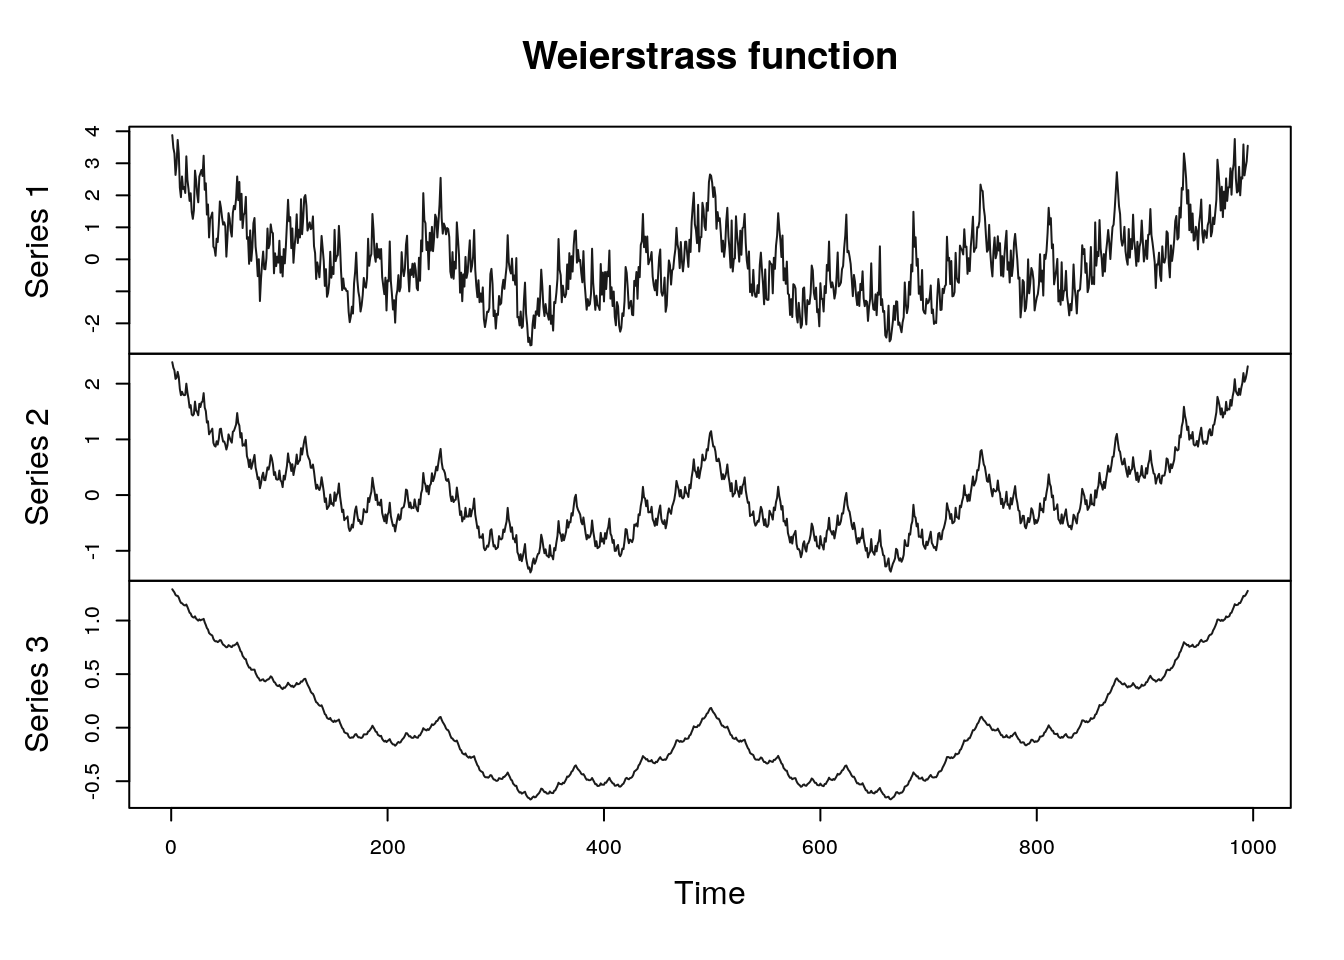
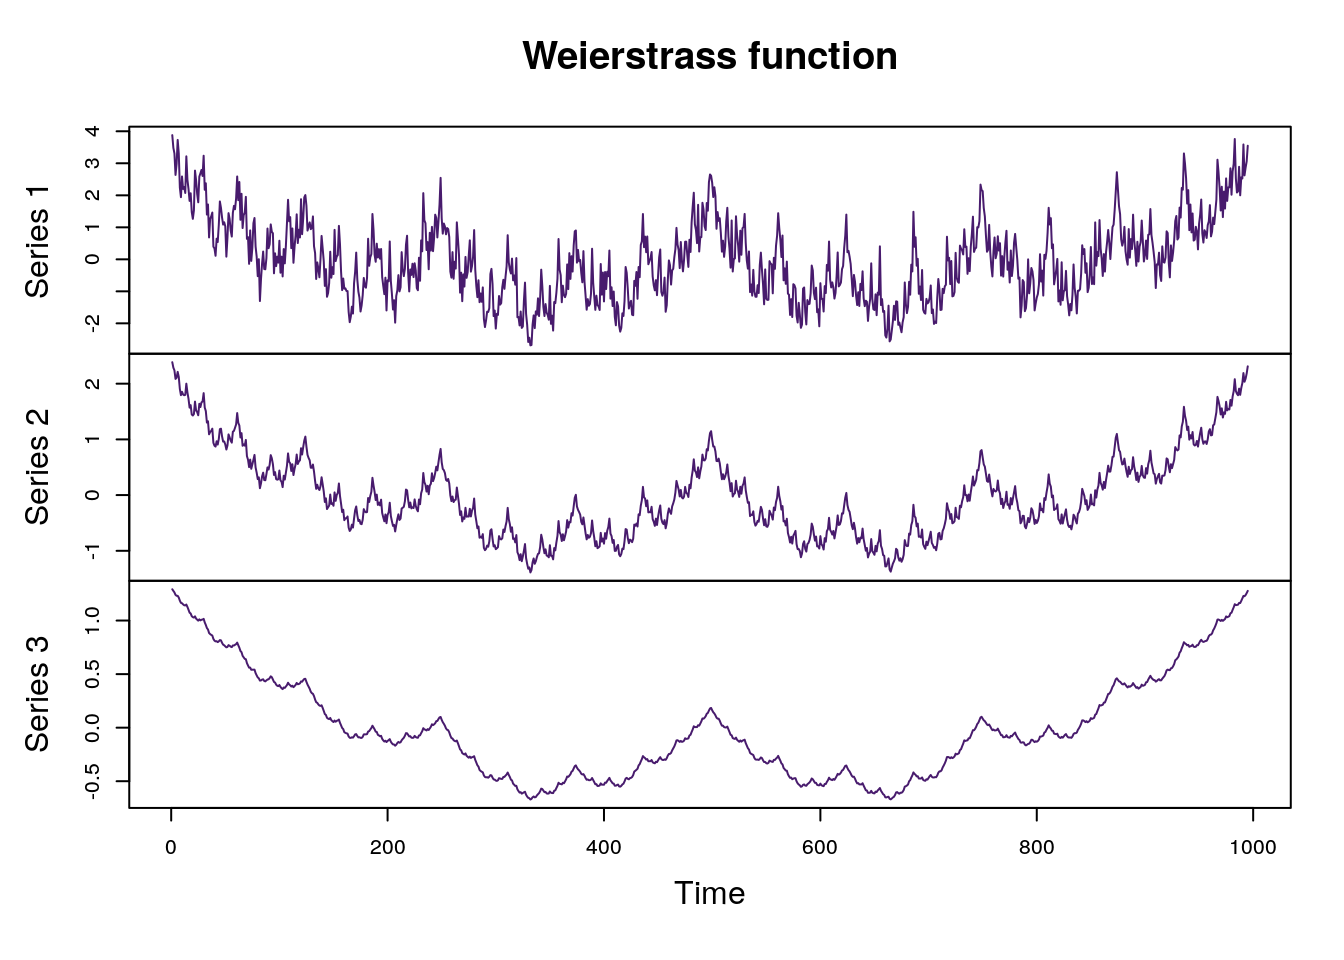
pages edits

diff --git a/README.html b/README.html
@@ -29,10 +29,10 @@ body {
 <h2 id="eeg-complex">eeg-complex</h2>
 <p>This package contains code that reproduces figures and analyses used in my MA thesis, <em>Improvement of epsilon-complexity estimation and an application to seizure prediction</em>.</p>
 <p>For an overview of the research and individual analyses see the <a href="https://nateaff.github.io/eeg-complex/">web pages</a>.</p>
-<p>The <a href="https://github.com/nateaff/ecomplex"><code>ecomplex</code></a> package contains the <code>R</code> version of the procedure for computing the epsilon-complexity of a single variable function or time series. The repositories for the three other packages used in this thesis, <a href="https://github.com/nateaff/tssims"><code>tssims</code></a>, <a href="https://github.com/nateaff/tsfeats"><code>tsfeats</code></a>and <a href="https://github.com/nateaff/tssegment"><code>tssegment</code></a>, are also on github. The first two packages unify access to a set of simulations and features, respectively. The <code>tssegment</code> package provides an interface to the segmentation and classification methods used for predicting seizures.</p>
+<p>The <a href="https://github.com/nateaff/ecomplex">ecomplex</a> package contains the <code>R</code> version of the procedure for computing the epsilon-complexity of a single variable function or time series. The repositories for the three other packages used in this thesis, <a href="https://github.com/nateaff/tssims">tssims</a>, <a href="https://github.com/nateaff/tsfeats">tsfeats</a> and the imaginatively named <a href="https://github.com/nateaff/tssegment">tssegment</a>, are also on github. The first two packages unify access to a set of simulations and features, respectively. The <code>tssegment</code> package provides an interface to the segmentation and classification methods used for predicting seizures.</p>
 <p>The current draft of the complete thesis is <a href="https://github.com/nateaff/eeg-complex/blob/master/docs/thesis/thesis.pdf">here.</a> (This is a draft and has not yet been submitted.)</p>
 <h2 id="files">Files</h2>
-<p>This is an <code>R</code> package with additional files that follow the structure of a <a href="https://github.com/jdblischak/workflowr"><code>workflowr</code></a> project. See the <a href="https://jdblischak.github.io/workflowr/index.html"><code>workflowr</code> documentation</a> for more information. The <a href="https://github.com/jdblischak/workflowr"><code>workflowr</code> readme</a> also as a nice overview of similar project management packages.</p>
+<p>This is an <code>R</code> package with additional files that follow the structure of a <a href="https://github.com/jdblischak/workflowr">workflowr</a> project. See the <a href="https://jdblischak.github.io/workflowr/index.html">workflowr documentation</a> for more information. The <a href="https://github.com/jdblischak/workflowr">workflowr readme</a> also as a nice overview of similar project management packages.</p>
 <p><code>R</code> : Contains most standalone functions.</p>
 <p><code>code</code>: Code associated with individual analyses. Code is organized by prefix into 5 sections:</p>
 <ul>

diff --git a/docs/simulations.html b/docs/simulations.html
@@ -223,6 +223,7 @@ $(document).ready(function () {
 
 <div id="TOC">
 <ul>
+<li><a href="#introduction">Introduction</a></li>
 <li><a href="#diagnostic-plots">Diagnostic plots</a></li>
 <li><a href="#approximation-method-performance">Approximation method performance</a></li>
 <li><a href="#session-information">Session information</a></li>
@@ -236,7 +237,9 @@ shared across the workflowr files. -->
 <p><strong>Last updated:</strong> 2017-07-25</p>
 <!-- Insert the code version (Git commit SHA1) if Git repository exists and R
  package git2r is installed -->
-<p><strong>Code version:</strong> 5cf245a ### Introduction</p>
+<p><strong>Code version:</strong> e5a2a1d</p>
+<div id="introduction" class="section level3">
+<h3>Introduction</h3>
 <p>The <span class="math inline">\(\varepsilon-\)</span>complexity of a time series is computed by successively downsampling and approximating the original time series. The initial implementation of the <span class="math inline">\(\varepsilon-\)</span>complexity procedure used piecewise polynomials as the approximation method. We implemented the procedure in the <code>R</code> language using three approximation methods, B-splines, cubic splines, and interpolating subdivision. We implemented the latter method in <code>R</code> while the spline approximation methods used existing libraries.</p>
 <p>The purpose of adding additional approximation methods was to improve the performance of the complexity coefficients in segmentation and classification tasks. We found that improved approximation did not lead to improved classification performance. Cubic splines were used in later applications because of the computational efficiency of the method.</p>
 <pre class="r"><code>knitr::read_chunk(&quot;../code/sim-example.R&quot;)</code></pre>
@@ -301,6 +304,7 @@ Single time series from each simulation group.
 </p>
 </div>
 <pre class="r"><code>save_plot(&quot;jitter_timeseries&quot;, prefix)</code></pre>
+</div>
 <div id="diagnostic-plots" class="section level3">
 <h3>Diagnostic plots</h3>
 <p>In the theory developed by Piryatinska and Darkhovsky<a href="#fn1" class="footnoteRef" id="fnref1"><sup>1</sup></a>, the <span class="math inline">\(log-log\)</span> regression of approximation errors taken at each downsampling level <span class="math inline">\(S\)</span> should be roughly linear. The two parameters defining this linear fit are the complexity coefficients.The implementation of the three approximation methods was checked to determine that this linear relationship held. Below is the plot for the interpolating subdivision method. Diagnostic plots for the other methods produced similar results.</p>

diff --git a/docs/index.html b/docs/index.html
@@ -222,13 +222,13 @@ $(document).ready(function () {
 shared across the workflowr files. -->
 <!-- Update knitr chunk options -->
 <!-- Insert the date the file was last updated -->
-<p><strong>Last updated:</strong> 2017-07-24 <!-- Insert the code version (Git commit SHA1) if Git repository exists and R
+<p><strong>Last updated:</strong> 2017-07-25 <!-- Insert the code version (Git commit SHA1) if Git repository exists and R
  package git2r is installed --></p>
 <ol style="list-style-type: decimal">
 <li><a href="simulations.html">Simulation and Approximation Methods</a></li>
 <li><a href="complexity-coefficients.html">Properties of the Complexity Coefficients</a></li>
 <li><a href="seizure-prediction.html">Seizure Prediction</a></li>
-<li><a href="ecomplexity-procedure.html">Computing the complexity coefficients</a></li>
+<li><a href="ecomplexity-procedure.html">Computing the Complexity Coefficients</a></li>
 </ol>
 <p>The <span class="math inline">\(\varepsilon\)</span>-complexity of a continuous function is, roughly speaking, the amount of information needed to reconstruct that function within an absolute error <span class="math inline">\(\varepsilon\)</span>. The theory and procedure for estimating <span class="math inline">\(\varepsilon\)</span>-complexity was introduced by Darkhovsky and Piryatinska<a href="#fn1" class="footnoteRef" id="fnref1"><sup>1</sup></a>. In previous work, the complexity coefficients have been shown to be useful features for the segmentation and classification of time series<a href="#fn2" class="footnoteRef" id="fnref2"><sup>2</sup></a>.</p>
 <p>The purpose of these analyses was three-fold:</p>
@@ -274,6 +274,7 @@ knitr::read_chunk(&quot;../code/eeg-segment-plot.R&quot;)</code></pre>
                     col = adjustcolor(&quot;gray20&quot;, 0.6), 
                     lwd = 2,
                     lty = 1, 
+                    cex = 0.5,
                     ylim = c(0,2.2), 
                     xlim = c(0,120), 
                     xlab = &quot;Time&quot;,

diff --git a/docs/complexity-coefficients.html b/docs/complexity-coefficients.html
@@ -237,7 +237,7 @@ shared across the workflowr files. -->
 <p><strong>Last updated:</strong> 2017-07-25</p>
 <!-- Insert the code version (Git commit SHA1) if Git repository exists and R
  package git2r is installed -->
-<p><strong>Code version:</strong> 5cf245a</p>
+<p><strong>Code version:</strong> e5a2a1d</p>
 <pre class="r"><code>  devtools::load_all()
   knitr::read_chunk(&quot;../code/holder-weierstrass-notrandom.R&quot;)</code></pre>
 <div id="introduction" class="section level3">
@@ -298,7 +298,7 @@ cols = c(3, 8, 16)
 # alpha[cols]
 
 # Plot a single example from fbm with different parameters
-plot.ts(xs[,cols], main = &quot;Weierstrass function&quot;, col = eegpalette(1)[1])</code></pre>
+plot.ts(xs[,cols], main = &quot;Weierstrass function&quot;, col = viridis::viridis(30)[3])</code></pre>
 <div class="figure" style="text-align: center">
 <img src="figure/complexity-coefficients.Rmd/holder-weir1-1.png" alt="Plot of Weierstrass function with alpha parameters (0.2, 0.42, 0.8)" width="672" />
 <p class="caption">
@@ -380,7 +380,7 @@ Complexity coefficients and fractal dimension plotted against the Weierstrass pa
   
   
   names(xs) &lt;- paste0(&quot;Complexity &#39;B&#39;=&quot;, comps[,2], &quot; , &quot;, &quot;Hurst=&quot;, round(fh[,2], 2))
-  plot_ts(xs, ncol = 3)</code></pre>
+  plot_ts(xs, ncol = 3, col = viridis::viridis(30)[3])</code></pre>
 <div class="figure" style="text-align: center">
 <img src="figure/complexity-coefficients.Rmd/cauchy1-1.png" alt="Plot of Cauchy process for a grid of parameters." width="864" />
 <p class="caption">

diff --git a/docs/seizure-prediction.html b/docs/seizure-prediction.html
@@ -235,10 +235,10 @@ $(document).ready(function () {
 shared across the workflowr files. -->
 <!-- Update knitr chunk options -->
 <!-- Insert the date the file was last updated -->
-<p><strong>Last updated:</strong> 2017-07-24</p>
+<p><strong>Last updated:</strong> 2017-07-25</p>
 <!-- Insert the code version (Git commit SHA1) if Git repository exists and R
  package git2r is installed -->
-<p><strong>Code version:</strong> 5cf245a</p>
+<p><strong>Code version:</strong> e5a2a1d</p>
 <div id="introduction" class="section level3">
 <h3>Introduction</h3>
 <p>Electroencephalograms(EEG) are non-stationary and non-homogeneous signals. In other words, EEG signals exhibit abrupt changes in their statistical distribution and functional behavior. EEG signals can also be considered as points in a high-dimensional space. A common way of reducing the EEG signal to a more tractable, lower-dimensional space is by some combination of features extraction and signal decomposition – i.e., spectral, wavelet, principal component(PCA) or independent component(ICA) decomposition. Feature selection and decompositions of the raw signal entail an averaging over possibly inhomogeneous segments of the EEG signal.</p>
@@ -422,7 +422,7 @@ Segmentation of trial one based on the complexity coefficient <span class="math 
     for(k in 1:6){
      plot(eeg[k, a:b], 
            type = &#39;l&#39;, 
-           col = &quot;gray20&quot;, 
+           col = &quot;gray30&quot;, 
            lwd = 1.5,
            axes = FALSE,
            frame.plot = FALSE)

diff --git a/README.md b/README.md
@@ -7,14 +7,14 @@ This package contains code that reproduces figures and analyses used in my MA th
 
 For an overview of the research and individual analyses see the [web pages](https://nateaff.github.io/eeg-complex/).
 
-The [`ecomplex`](https://github.com/nateaff/ecomplex) package contains the `R` version of the procedure for computing the epsilon-complexity of a single variable function or time series. The repositories for the three other packages used in this thesis, [`tssims`](https://github.com/nateaff/tssims), [`tsfeats`](https://github.com/nateaff/tsfeats)and [`tssegment`](https://github.com/nateaff/tssegment), are also on github. The first two packages unify access to a set of simulations and features, respectively. The `tssegment` package provides an interface to the segmentation and classification methods used for predicting seizures.
+The [ecomplex](https://github.com/nateaff/ecomplex) package contains the `R` version of the procedure for computing the epsilon-complexity of a single variable function or time series. The repositories for the three other packages used in this thesis, [tssims](https://github.com/nateaff/tssims), [tsfeats](https://github.com/nateaff/tsfeats) and the imaginatively named [tssegment](https://github.com/nateaff/tssegment), are also on github. The first two packages unify access to a set of simulations and features, respectively. The `tssegment` package provides an interface to the segmentation and classification methods used for predicting seizures.
 
 The current draft of the complete thesis is [here.](https://github.com/nateaff/eeg-complex/blob/master/docs/thesis/thesis.pdf) (This is a draft and has not yet been submitted.)
 
 Files
 -----
 
-This is an `R` package with additional files that follow the structure of a [`workflowr`](https://github.com/jdblischak/workflowr) project. See the [`workflowr` documentation](https://jdblischak.github.io/workflowr/index.html) for more information. The [`workflowr` readme](https://github.com/jdblischak/workflowr) also as a nice overview of similar project management packages.
+This is an `R` package with additional files that follow the structure of a [workflowr](https://github.com/jdblischak/workflowr) project. See the [workflowr documentation](https://jdblischak.github.io/workflowr/index.html) for more information. The [workflowr readme](https://github.com/jdblischak/workflowr) also as a nice overview of similar project management packages.
 
 `R` : Contains most standalone functions.
 
